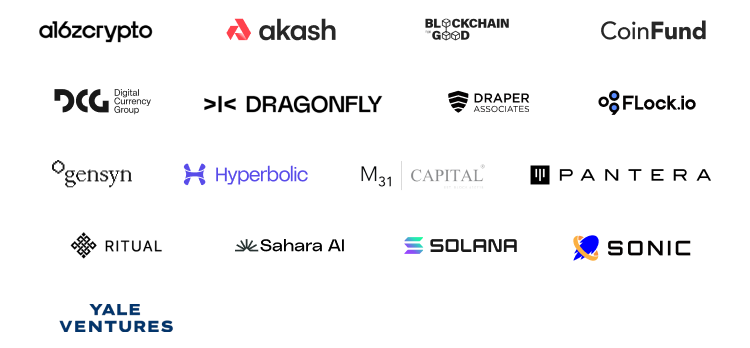
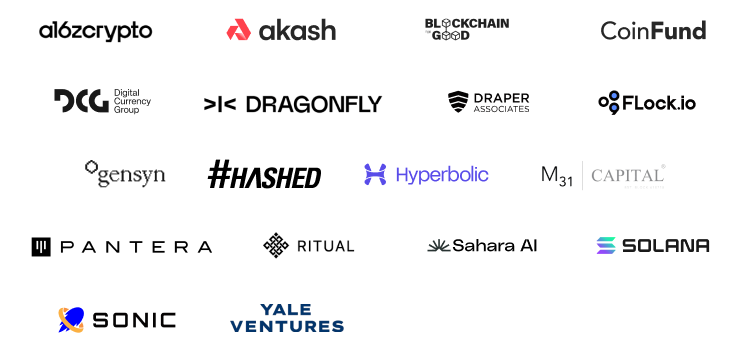
fix

diff --git a/src/app/page.tsx b/src/app/page.tsx
@@ -63,31 +63,32 @@ export default function Home() {
 
   // 数据数组
   const speakers = [
-    { id: 8, name: "Guy Wuollet", company: "Investment Partner at a16z crypto", img: "/speakers/6.png", icon: "6" },
+    { id: 9, name: "Guy Wuollet", company: "Investment Partner at a16z crypto", img: "/speakers/6.png", icon: "6" },
     { id: 1, name: "Anna Bertha", company: "Investor at DCG", img: "/speakers/3.png", icon: "1" },
-    { id: 9, name: "Jiahao Sun", company: "Founder and CEO of FLock.io", img: "/speakers/8.png", icon: "8" },
+    { id: 10, name: "Jiahao Sun", company: "Founder and CEO of FLock.io", img: "/speakers/8.png", icon: "8" },
     {
-      id: 5,
+      id: 6,
       name: "David Attermann",
       company: "Head of Web3 Investments at M31 Capital",
       img: "/speakers/13.png",
       icon: "12",
     },
-    { id: 3, name: "Chris Zhu", company: "Co-founder of Sonic / Mirror World", img: "/speakers/9.png", icon: "3" },
+    { id: 4, name: "Chris Zhu", company: "Co-founder of Sonic / Mirror World", img: "/speakers/9.png", icon: "3" },
     {
-      id: 4,
+      id: 5,
       name: "Christian Ondaatje",
       company: "Platform Engineer of Hyperbolicd",
       img: "/speakers/5.png",
       icon: "4",
     },
-    { id: 7, name: "Greg Osuri", company: "Founder of Akash", img: "/speakers/1.png", icon: "7" },
-    { id: 10, name: "Naveen Durvasula", company: "Core Member of Ritual", img: "/speakers/2.png", icon: "9" },
-    { id: 2, name: "Ben Fielding", company: "Co-founder of Gensyn", img: "/speakers/4.png", icon: "2" },
-    { id: 6, name: "Evan Feng", company: "Partner at CoinFund", img: "/speakers/12.png", icon: "5" },
-    { id: 11, name: "Nihal Maunder", company: "Junior Partner at Pantera", img: "/speakers/14.png", icon: "14" },
-    { id: 13, name: "Tom Schmidt", company: "Partner at Dragonfly", img: "/speakers/7.png", icon: "13" },
-    { id: 12, name: "Sean Ren", company: "Cofounder of Sahara AI", img: "/speakers/15.png", icon: "15" },
+    { id: 8, name: "Greg Osuri", company: "Founder of Akash", img: "/speakers/1.png", icon: "7" },
+    { id: 11, name: "Naveen Durvasula", company: "Core Member of Ritual", img: "/speakers/2.png", icon: "9" },
+    { id: 3, name: "Ben Fielding", company: "Co-founder of Gensyn", img: "/speakers/4.png", icon: "2" },
+    { id: 2, name: "Baek Kim", company: "Partner at Hashed", img: "/speakers/16.png", icon: "16" },
+    { id: 7, name: "Evan Feng", company: "Partner at CoinFund", img: "/speakers/12.png", icon: "5" },
+    { id: 12, name: "Nihal Maunder", company: "Junior Partner at Pantera", img: "/speakers/14.png", icon: "14" },
+    { id: 14, name: "Tom Schmidt", company: "Partner at Dragonfly", img: "/speakers/7.png", icon: "13" },
+    { id: 13, name: "Sean Ren", company: "Cofounder of Sahara AI", img: "/speakers/15.png", icon: "15" },
   ];
 
   // 点击按钮后展示更多数据

diff --git a/src/app/layout.tsx b/src/app/layout.tsx
@@ -7,7 +7,7 @@ const inter = Inter({ subsets: ["latin"] });
 
 export const metadata: Metadata = {
   title: "CUBE Summit",
-  description: "For the first time, top university blockchain clubs are teaming up, backed by extensive alumni networks, in collaboration with leading blockchains, projects, and VCs, to ignite emerging talent and innovative projects, shaping the future stars of the crypto world.",
+  description: "For the first time, distinguished university blockchain clubs are teaming up, backed by extensive alumni networks, in collaboration with leading blockchains, projects, and VCs, to ignite emerging talent and innovative projects, shaping the future stars of the crypto world.",
 };
 
 export default function RootLayout({
